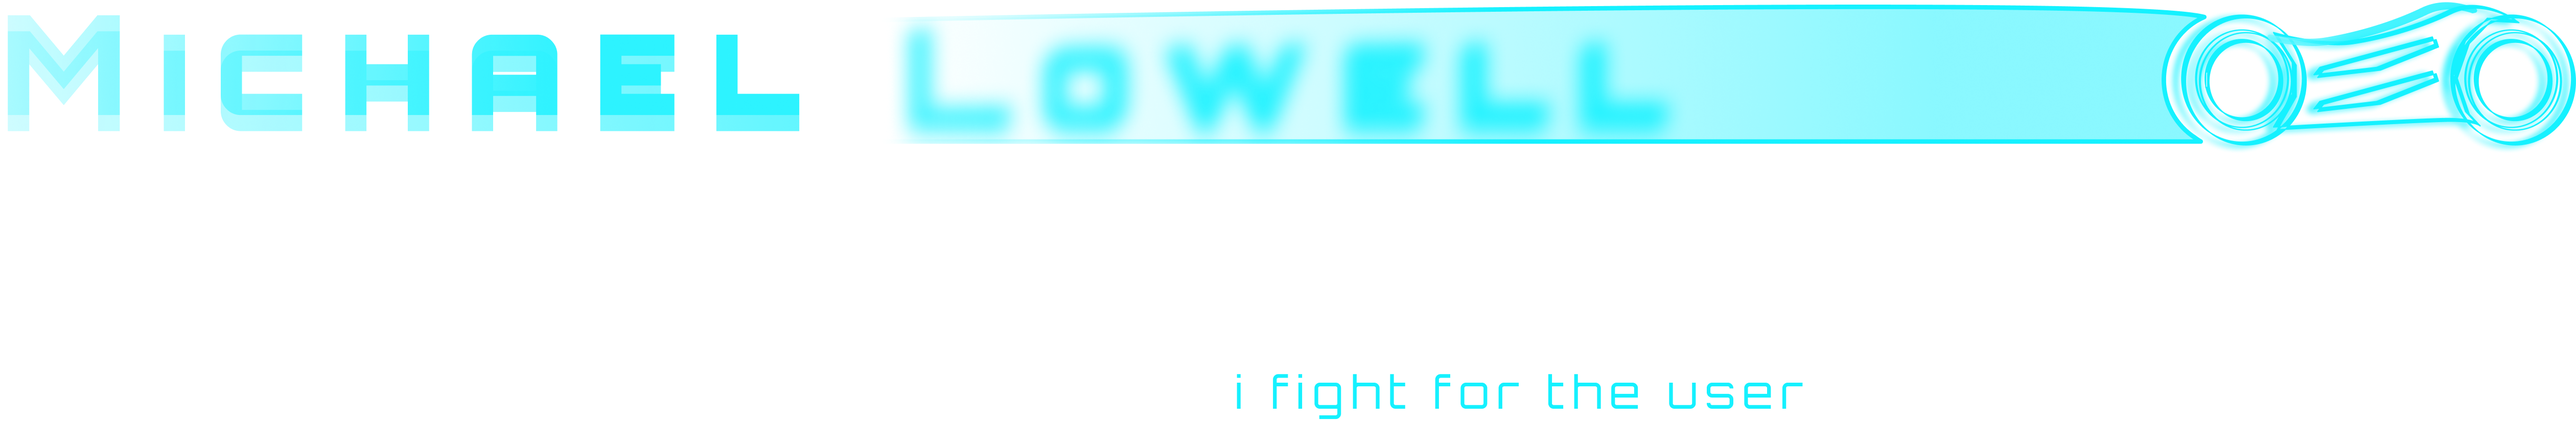
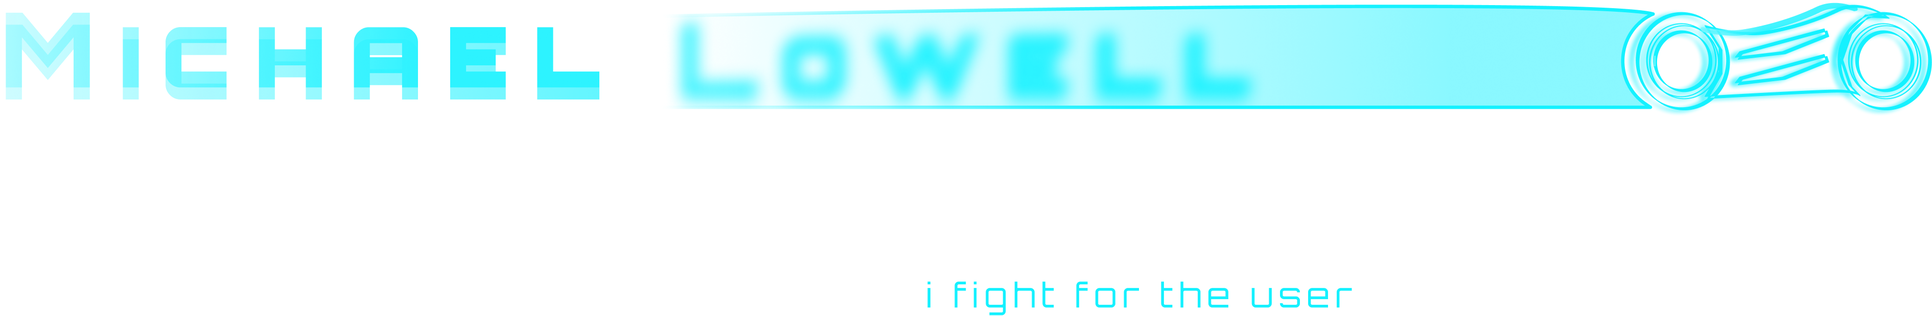
Adjusted spacing, swapped images for lower res

diff --git a/src/components/Home.vue b/src/components/Home.vue
@@ -114,7 +114,7 @@ export default {
 }
 @media (max-width: 767px) {
   .home-banner {
-    height: 650px;
+    height: 550px;
     background-position: center top -80px;
   }
   .home-banner > .caption {
@@ -130,7 +130,7 @@ export default {
     position: absolute;
     width: 116px;
     height: 120px;
-    top: calc(512px - 62px + 200px);
+    top: calc(512px - 62px + 100px);
     left: calc(50% - 58px);
   }
   .profile > div {
